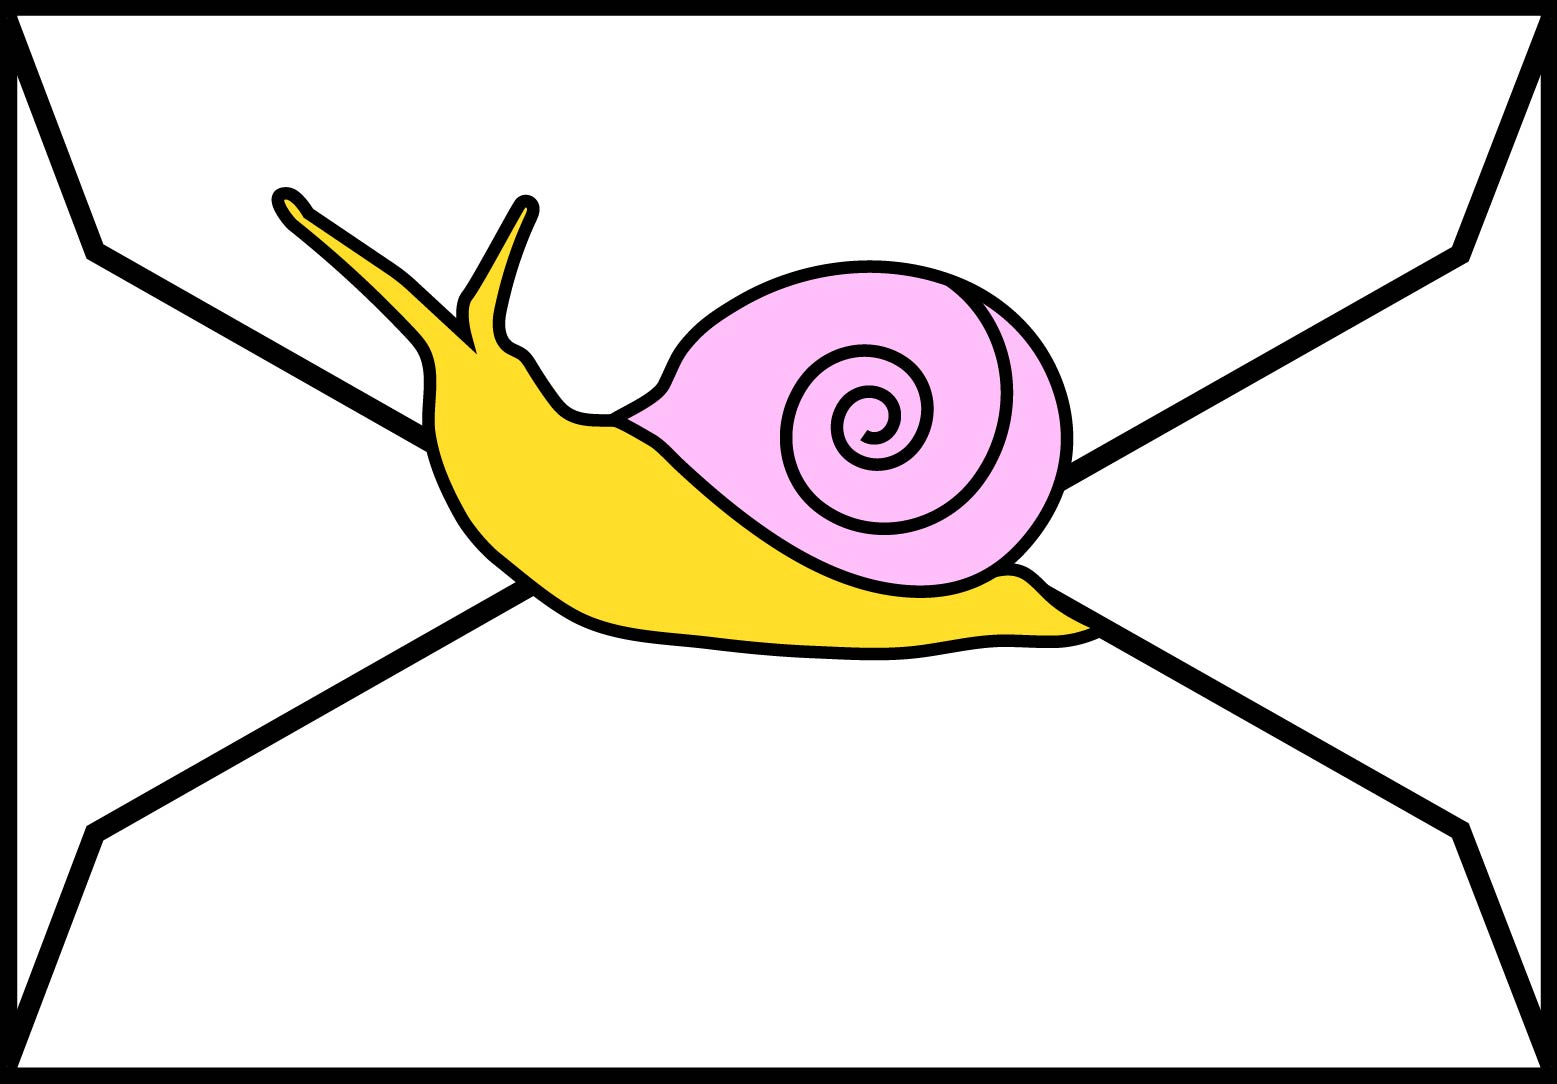
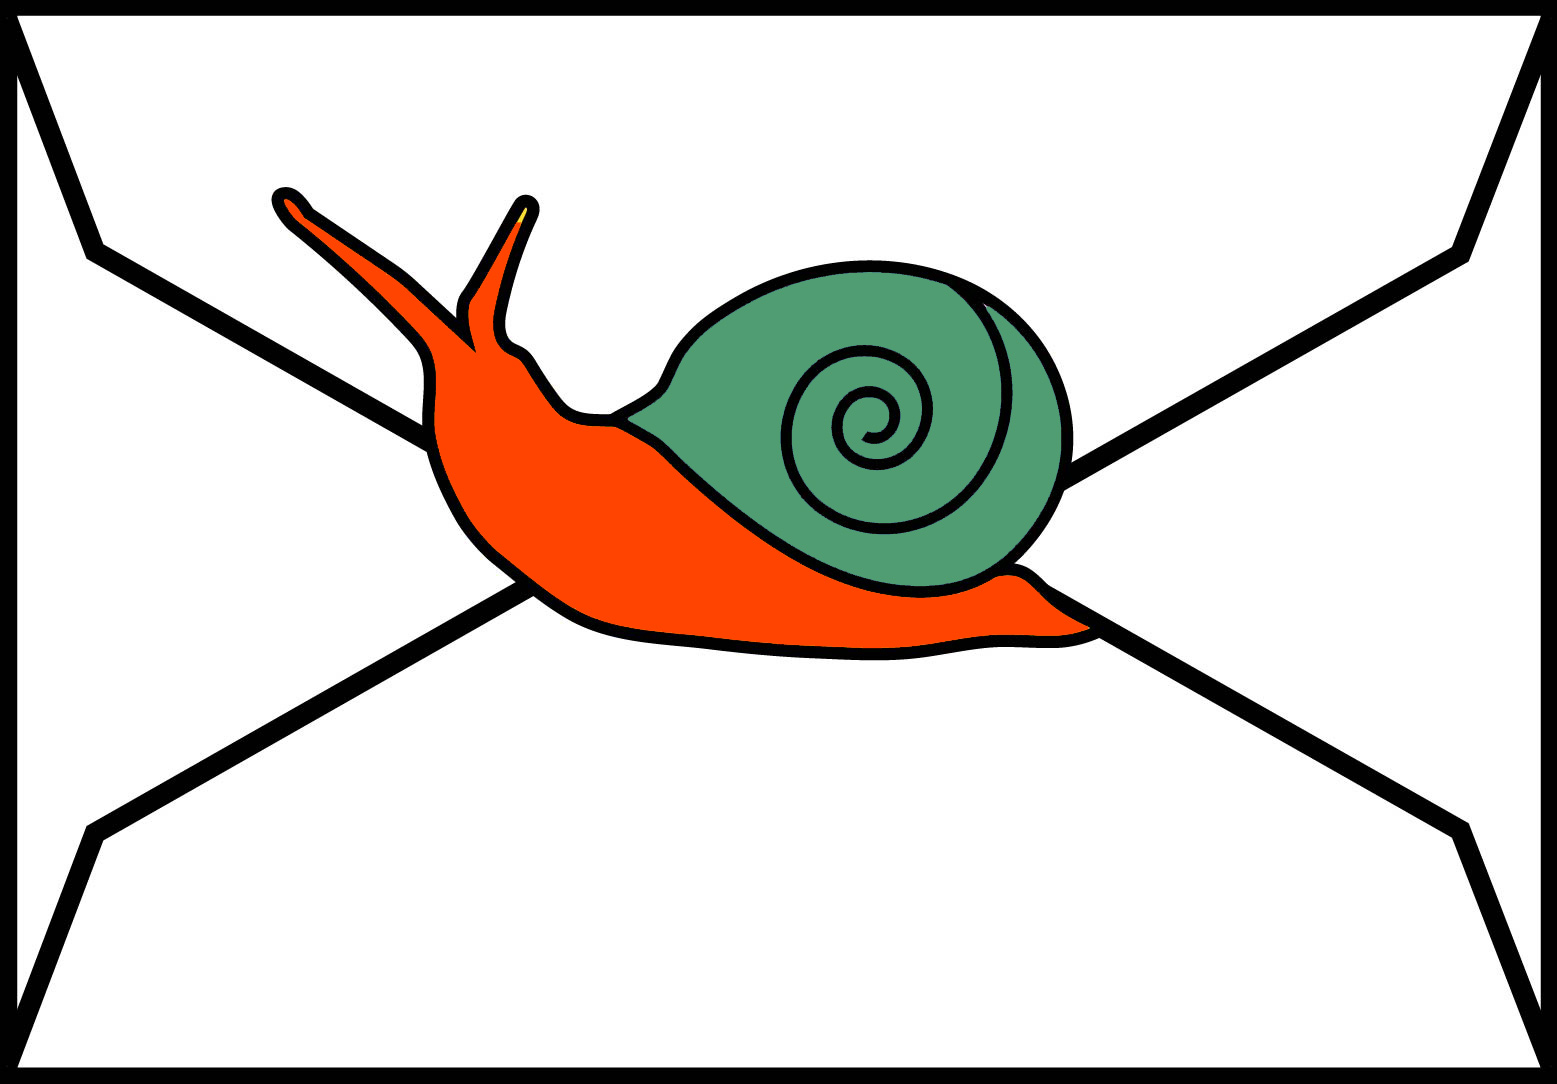
neww

Changed region(s): [[0.185, 0.1827, 0.7091, 0.6089]]

diff --git a/projects-1/intro/intro.css b/projects-1/intro/intro.css
@@ -4,7 +4,7 @@ background-repeat: repeat-x;
 background-position: bottom;
   background-blend-mode: multiply;
   background-size: 50px 900px;
-  background-color: yellow;
+  background-color: lemonchifon;
 }
 a:hover {
   background-color:pink;
@@ -13,7 +13,7 @@ a {
   color: seagreen;
 }
 h1 { font-size:100px;
-  color: pink;
+  color: orangered;
   margin-bottom: -6px;
   margin-top: 100px;
   -webkit-text-stroke: 1px black;
